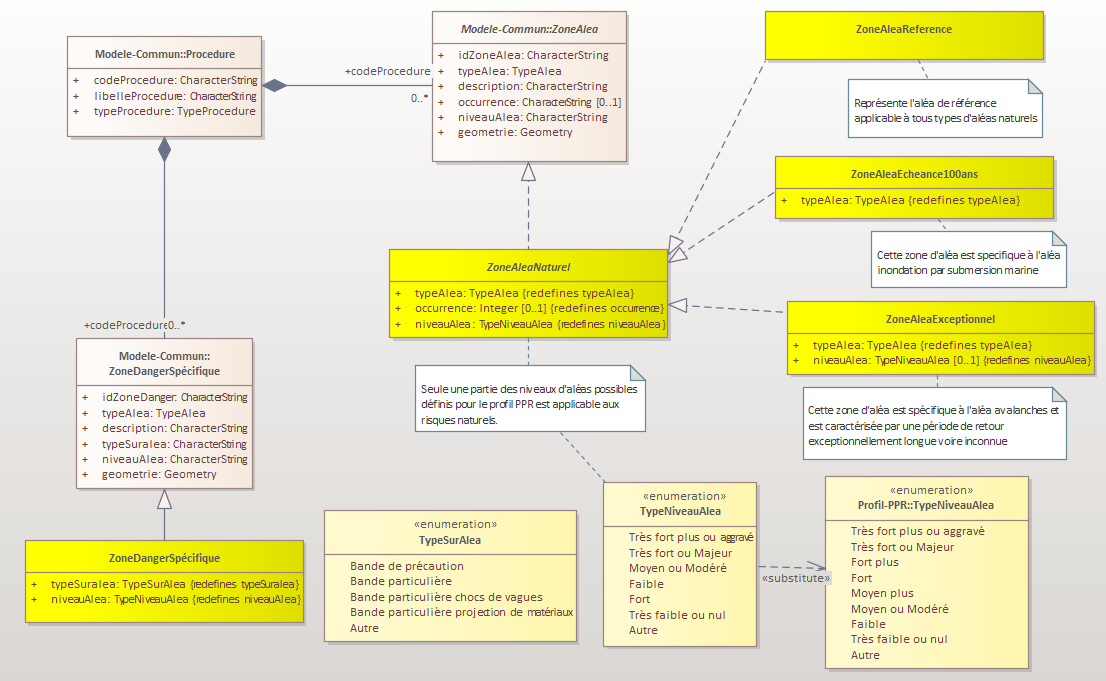
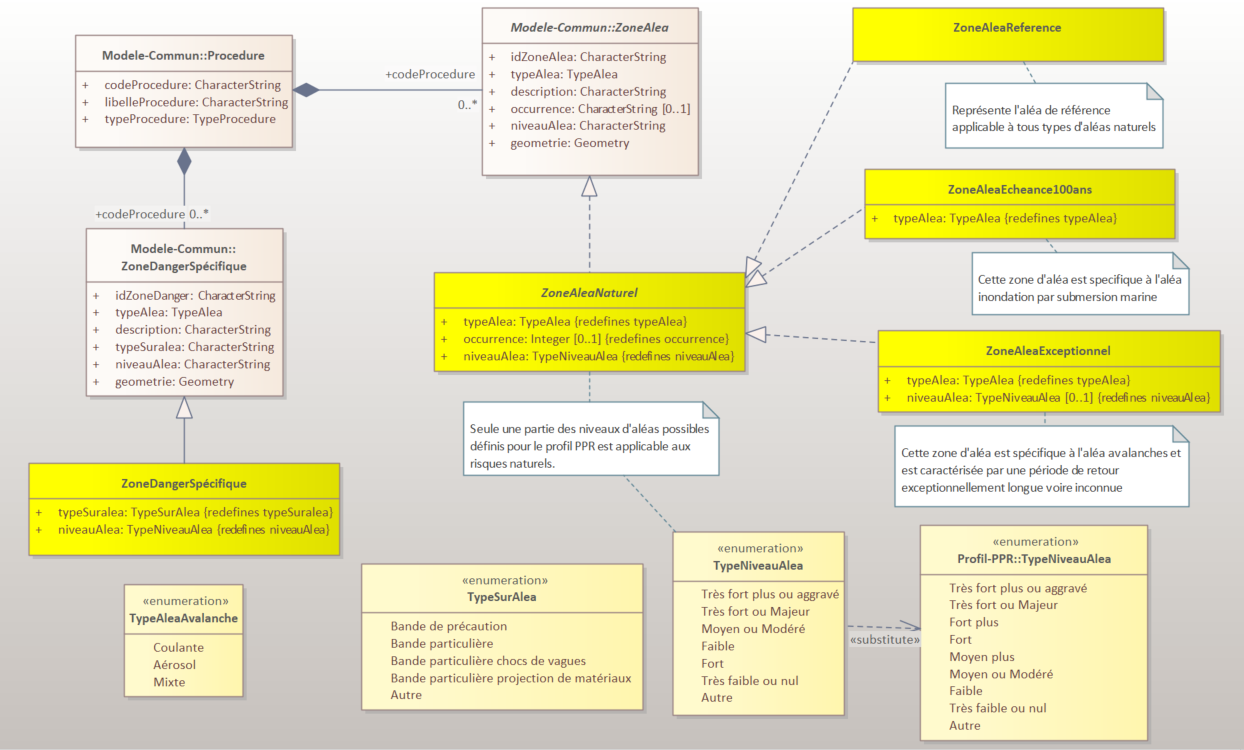
Traitement commentaire DDT74-1 (types avalanches)

Changed region(s): [[0.0, 0.0, 1.0, 1.0], [0.3074, 0.0, 0.5841, 0.2775], [0.0615, 0.0308, 0.2767, 0.2159]]

diff --git a/standards/Geostandards-risques-ppr/Document.md b/standards/Geostandards-risques-ppr/Document.md
@@ -399,7 +399,11 @@ Dans le cadre de l'élaboration des **plans de prévention des risques naturels*
 
 Dans le cas particulier de l'aléa **inondation par submersion marine**, des zones d'**aléas à échéance 100 ans** doivent aussi être déterminées et qualifiées selon des modalités précisées par l'arrêté du ministre chargé de la prévention des risques majeurs ([Art. R562-11-5 du code de l'environnement](https://www.legifrance.gouv.fr/codes/section_lc/LEGITEXT000006074220/LEGISCTA000006177007/#LEGISCTA000006177007)). A ce titre, la classe [ZoneAleaNaturel](#classe-dobjets-zonealeanaturel) est spécialisée par la classe [ZoneAleaEcheance100ans](#classe-dobjets-zonealeaecheance100ans) permettant de représenter les zones d'aléas correspondant à l'aléa à échéance 100 ans. L'implémentation de cette classe n'est obligatoire que dans le cadre de l'aléa submersion marine.
 
-Dans le cas particulier des **PPR Avalanches**, des zones d'aléa correspondant à un **aléa de référence exceptionnel** peuvent être définies selon les modalités précisées dans [Guide PPRNAv:2015](https://www.ecologie.gouv.fr/sites/default/files/guide%20PPR%20avalanches-correctif%20f%C3%A9vrier%202022%281%29.pdf) caractérisés par une période de retour exceptionnellement grande, voire inconnue. La classe [ZoneAleaExceptionnel](#classe-dobjets-zonealeaexceptionnel) spécialise la classe [ZoneAleaNaturel](#classe-dobjets-zonealeanaturel) pour mettre en œuvre ces zones d'aléa exceptionnels.
+Dans le cas particulier des **PPR Avalanches** : 
+
+* des zones d'aléa correspondant à un **aléa de référence exceptionnel** peuvent être définies selon les modalités précisées dans [Guide PPRNAv:2015](https://www.ecologie.gouv.fr/sites/default/files/guide%20PPR%20avalanches-correctif%20f%C3%A9vrier%202022%281%29.pdf) caractérisés par une période de retour exceptionnellement grande, voire inconnue. La classe [ZoneAleaExceptionnel](#classe-dobjets-zonealeaexceptionnel) spécialise la classe [ZoneAleaNaturel](#classe-dobjets-zonealeanaturel) pour mettre en œuvre ces zones d'aléa exceptionnels.
+
+* Une énumération [TypeAleaAvalanche](#enumeration-typealeaavalanche) permettant de décrire les avalanches selon le type d'écoulement est proposée. Elle permet d'ajouter une information supplémentaire sur les zones d'aléas relatives aux PPR avalanches à l'aide du champ description. Cette énumération est proposée seulement à un niveu informatif.
 
 
 ##### Définition des zones de danger spécifiques pour l'aléa inondation
@@ -713,6 +717,18 @@ Le tableau suivant liste les valeurs possibles permettant de caractériser les z
 | Bande particulière chocs de vagues | Il s'agit de zones soumises aux chocs mécaniques des vagues (uniquement) telles que définies dans le [Guide PPRL:2014](https://www.ecologie.gouv.fr/sites/default/files/documents/Guide_m%C3%A9thodo_PPRL_%202014.pdf) |
 | Bande particulière projection de matériaux | Il s'agit de zones soumises à des projections de matériaux (uniquement) telles que définies dans le [Guide PPRL:2014](https://www.ecologie.gouv.fr/sites/default/files/documents/Guide_m%C3%A9thodo_PPRL_%202014.pdf) |
 | Autre | Si le type de zone de danger spécifique ne fait pas partie des valeurs précédentes. |
+
+#### Enumeration *TypeAleaAvalanche*
+
+Le tableau suivant liste les valeurs possibles et communes pour décrire les avalanches selon leur type d'écoulement. Elle permet d'ajouter une information supplémentaire sur les zones d'aléas relatives aux PPR avalanches à l'aide du champ description de la classe. Cette énumération, issue des définitions de [Guide PPRNAv:2015](https://www.ecologie.gouv.fr/sites/default/files/guide%20PPR%20avalanches-correctif%20f%C3%A9vrier%202022%281%29.pdf), est proposée seulement à un niveu informatif : il n'y a pas d'obligation d'utiliser ces valeurs pour le champs description.
+
+
+| Libellé | Description |
+|-|-|
+| Coulante | Type d'avalanche qui a tendance à s’écouler selon une trajectoire très dépendante du relief local, avec de possibles changements brutaux de direction (ex. : le long d’une route). Elle peut aussi s’étaler largement dans les secteurs à faible pente. |
+| Aérosol | Nuage turbulent de particules de neige en suspension dans l’air qui tend à aller, selon la ligne générale de la plus grande pente, en s’affranchissant souvent des variations topographiques locales. |
+| Mixte | Type d'avalanche combinant les deux types précédent. |
+
 
 
 #### Enumeration *TypeIntensiteTechno*
@@ -2914,7 +2930,7 @@ La classe ZoneAleaTechnoRapide est implémentée par la table [\[TypePPR\]\_\[Co
 
 L'ancien standard ne définissait qu'une classe pour les zones d'aléas, que le PPR soit Naturel ou technologique. Dans le cas où la zone d'aléa décrit un risque technologique industriel (coderisque de type "21xxxx") les objets de la table ZONE\_ALEA\_PPRT correspondants peuvent être convertis en objets de la table ZoneAleaTechnoLent si des éléments permettent de les identifier comme des zones d'aléa à cinétique lente.
 
-La classe ZoneAleaTechnoLent est implémentée par la table [\[TypePPR\]\_\[CodeGASPARComplet\]\_zonealeatechnolent\_\[CodeAlea\]\_s](#table-typeppr_codegasparcomplet_zonealeatechnolent_codealea_s). Ses attributs sont les mêmes que ceux de la table ZoneAleaTechnoRapide et les règles de passage identiques s'appliquent.
+La classe ZoneAleaTechnoLent est implémentée par la table [[TypePPR]_[CodeGASPARComplet]_zonealeatechnolent_[CodeAlea]_s](#table-typeppr_codegasparcomplet_zonealeatechnolent_codealea_s). Ses attributs sont les mêmes que ceux de la table ZoneAleaTechnoRapide et les règles de passage identiques s'appliquent.
 
 A noter que certains attributs obligatoires dans le nouveau standard tel que "intensite" ne pourront être renseignés automatiquement à partir de champs de l'ancien standard. Une reprise manuelle de cette table devra être réalisée afin de compléter ces éléments et rendre les informations de la table conformes aux exigences du nouveau standard.
 
